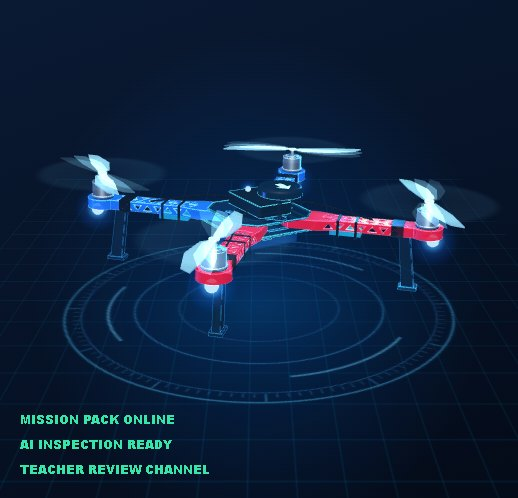
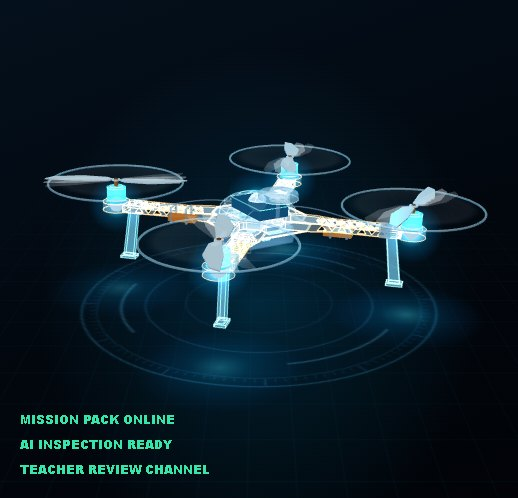
feat: 首頁 3D 無人機改為使用者參考圖風格（四旋翼 F450）；入口伺服器連線佇列放大
- 透明壓克力機身與座艙罩、銅橘結構線與電調、青光馬達與銅色軸、白灰槳與透明護圈
- 近黑帶青光背景、每顆馬達下方青色地面光暈；四槳仍各自獨立旋轉（相鄰旋向相反）
- 靜態備援圖更新為新風格；參考圖存於 docs/design-reference/
- static_entry_server：request_queue_size 5→128，修正並發載入時 Windows 拒絕連線導致通道 502

diff --git a/src/hero-drone-3d.js b/src/hero-drone-3d.js
@@ -73,44 +73,47 @@ function holoRingTexture() {
   return tex;
 }
 
-// 依零件名稱給「透明科技感」材質；名稱來自 GLB（GLTFLoader 會把空白換成底線）
+// 依零件名稱給材質。2026-11-06 依使用者參考圖（docs/design-reference/hero-drone-style-reference.jpg）改風格：
+// 透明壓克力機身、銅橘色結構線、青色發光馬達、白灰槳葉；機型維持四旋翼 F450（參考圖為多旋翼概念圖）
 function styleFor(name) {
   const n = String(name).replace(/_/g, ' ').toLowerCase();
-  const base = { transparent: true, depthWrite: true, side: THREE.DoubleSide };
-  if (n.includes('latticearm fl') || n.includes('latticearm fr')) {
-    // 前臂：紅色半透明發光
-    return { mat: { ...base, color: 0xff2d55, emissive: 0xff1744, emissiveIntensity: 0.45, metalness: 0.2, roughness: 0.35, opacity: 0.78 }, edge: 0xff6b8a, edgeOpacity: 0.55 };
-  }
+  const glass = { transparent: true, depthWrite: false, side: THREE.DoubleSide, metalness: 0.15, roughness: 0.06 };
   if (n.includes('latticearm')) {
-    // 後臂：藍色半透明發光
-    return { mat: { ...base, color: 0x2a8cff, emissive: 0x1565ff, emissiveIntensity: 0.5, metalness: 0.2, roughness: 0.35, opacity: 0.76 }, edge: 0x7cc4ff, edgeOpacity: 0.55 };
+    // 機臂：透明壓克力＋銅橘色輪廓（對應參考圖機臂內的橘色結構）
+    return { mat: { ...glass, color: 0xe6f8ff, emissive: 0x0a5a7a, emissiveIntensity: 0.22, opacity: 0.3 }, edge: 0xffa04a, edgeOpacity: 0.75 };
   }
   if (n.includes('motor')) {
-    return { mat: { color: 0xb8cde0, emissive: 0x0a4a8a, emissiveIntensity: 0.35, metalness: 0.85, roughness: 0.28 }, edge: 0x9fe3ff, edgeOpacity: 0.45 };
+    // 馬達：青色發光半透明外殼
+    return { mat: { ...glass, depthWrite: true, color: 0x7fe6ff, emissive: 0x16c8ff, emissiveIntensity: 0.95, opacity: 0.78 }, edge: 0xc8f6ff, edgeOpacity: 0.55 };
   }
   if (n.includes('pixhawk flightcontroller')) {
-    return { mat: { ...base, color: 0x16202c, emissive: 0x062a4a, emissiveIntensity: 0.6, metalness: 0.4, roughness: 0.3, opacity: 0.92 }, edge: 0x4fd8ff, edgeOpacity: 0.9 };
+    return { mat: { ...glass, depthWrite: true, color: 0x0c1a26, emissive: 0x0b5f95, emissiveIntensity: 0.55, opacity: 0.85 }, edge: 0x7fe9ff, edgeOpacity: 0.9 };
   }
   if (n.includes('gps arrow')) {
-    return { mat: { color: 0xe8f6ff, emissive: 0x7fd8ff, emissiveIntensity: 0.9 }, edge: null };
+    return { mat: { color: 0xffffff, emissive: 0x9fe9ff, emissiveIntensity: 0.9 }, edge: null };
   }
   if (n.includes('gps compass')) {
-    return { mat: { ...base, color: 0x0e1c2c, emissive: 0x08345a, emissiveIntensity: 0.6, metalness: 0.3, roughness: 0.25, opacity: 0.9 }, edge: 0x6fe0ff, edgeOpacity: 0.85 };
+    return { mat: { ...glass, color: 0xdff6ff, emissive: 0x0d7fb0, emissiveIntensity: 0.45, opacity: 0.45 }, edge: 0xa8f0ff, edgeOpacity: 0.8 };
   }
   if (n.includes('battery')) {
-    return { mat: { ...base, color: 0x1b5fa8, emissive: 0x0b3b7a, emissiveIntensity: 0.55, metalness: 0.3, roughness: 0.3, opacity: 0.62 }, edge: 0x6cc8ff, edgeOpacity: 0.7 };
+    return { mat: { ...glass, color: 0x9fdcff, emissive: 0x0b6aa0, emissiveIntensity: 0.5, opacity: 0.38 }, edge: 0x8fe6ff, edgeOpacity: 0.65 };
   }
   if (n.includes('esc')) {
-    return { mat: { ...base, color: 0x27c9ff, emissive: 0x0b7fbf, emissiveIntensity: 0.5, roughness: 0.4, opacity: 0.55 }, edge: null };
+    // 電調：銅橘色（對應參考圖的橘色線條）
+    return { mat: { ...glass, depthWrite: true, color: 0xff9a3c, emissive: 0xc05a10, emissiveIntensity: 0.45, metalness: 0.6, roughness: 0.3, opacity: 0.85 }, edge: null };
+  }
+  if (n.includes('gold edge')) {
+    return { mat: { ...glass, color: 0xffb066, emissive: 0xc06010, emissiveIntensity: 0.5, opacity: 0.8 }, edge: 0xffa04a, edgeOpacity: 0.8 };
   }
   if (n.includes('centre plate') || n.includes('powermodule') || n.includes('foam') || n.includes('gps mast')) {
-    return { mat: { ...base, color: 0x0b2742, emissive: 0x052040, emissiveIntensity: 0.6, metalness: 0.3, roughness: 0.25, opacity: n.includes('gold edge') ? 0.85 : 0.6 }, edge: 0x3cc8ff, edgeOpacity: n.includes('gold edge') ? 0.9 : 0.6 };
+    return { mat: { ...glass, color: 0xd6f2ff, emissive: 0x0a3a55, emissiveIntensity: 0.35, opacity: 0.26 }, edge: 0x9fe9ff, edgeOpacity: 0.6 };
   }
   if (n.includes('landing leg')) {
-    return { mat: { ...base, color: 0x0f2c48, emissive: 0x06243f, emissiveIntensity: 0.5, roughness: 0.35, opacity: 0.7 }, edge: 0x3aa8ff, edgeOpacity: 0.5 };
+    // 腳架：透明並帶青光（參考圖腳架下緣發青光）
+    return { mat: { ...glass, color: 0xbff0ff, emissive: 0x13b6e6, emissiveIntensity: 0.55, opacity: 0.42 }, edge: 0x9ff0ff, edgeOpacity: 0.6 };
   }
-  // 線束、束帶、膠帶等小件：深色低調
-  return { mat: { ...base, color: 0x0b1a2a, emissive: 0x03182c, emissiveIntensity: 0.4, roughness: 0.5, opacity: 0.8 }, edge: null };
+  // 線束、束帶、膠帶等小件：低調透明
+  return { mat: { ...glass, color: 0x9fb8c8, emissive: 0x06283c, emissiveIntensity: 0.3, opacity: 0.35 }, edge: null };
 }
 
 async function init() {
@@ -143,10 +146,10 @@ async function init() {
   const camera = new THREE.PerspectiveCamera(30, 1, 10, 6000);
 
   // 燈光：冷色環境光＋主光＋兩盞藍色補光
-  scene.add(new THREE.HemisphereLight(0x9fd8ff, 0x061223, 1.1));
-  const key = new THREE.DirectionalLight(0xffffff, 1.6); key.position.set(300, 600, -400); scene.add(key);
-  const rimA = new THREE.PointLight(0x2aa8ff, 2.2, 0, 0); rimA.position.set(-450, 120, 300); scene.add(rimA);
-  const rimB = new THREE.PointLight(0x3c7bff, 1.4, 0, 0); rimB.position.set(450, -80, 250); scene.add(rimB);
+  scene.add(new THREE.HemisphereLight(0xbfefff, 0x02080f, 0.9));
+  const key = new THREE.DirectionalLight(0xffffff, 1.8); key.position.set(300, 600, -400); scene.add(key);
+  const rimA = new THREE.PointLight(0x22d3ff, 2.4, 0, 0); rimA.position.set(-450, 120, 300); scene.add(rimA);
+  const rimB = new THREE.PointLight(0x18b8ff, 1.6, 0, 0); rimB.position.set(450, -120, 250); scene.add(rimB);
 
   const drone = new THREE.Group(); // 只用來做浮動與擺動
   scene.add(drone);
@@ -192,21 +195,31 @@ async function init() {
       const radius = Math.max(propSize.x, propSize.z) / 2; // 槳葉半徑（槳盤大小用）
       // 右前／左後 逆時針（+1），左前／右後 順時針（-1）→ 相鄰兩槳旋向相反
       const dir = pos === 'FR' || pos === 'RL' ? 1 : -1;
-      const blade = new THREE.Mesh(geometry, new THREE.MeshStandardMaterial({ color: 0xd8f0ff, emissive: 0x3fb6ff, emissiveIntensity: 0.55, transparent: true, opacity: 0.62, roughness: 0.3, metalness: 0.1, side: THREE.DoubleSide, depthWrite: false }));
+      // 槳葉：參考圖的白灰色槳
+      const blade = new THREE.Mesh(geometry, new THREE.MeshStandardMaterial({ color: 0xe4eaee, emissive: 0x2a3a44, emissiveIntensity: 0.25, transparent: true, opacity: 0.95, roughness: 0.42, metalness: 0.15, side: THREE.DoubleSide }));
       pivot.add(blade);
       // 輕微動態模糊：兩片同形狀、透明度遞減的殘影跟在槳葉後方
       [0.2, 0.4].forEach((lag, i) => {
-        const ghost = new THREE.Mesh(geometry, new THREE.MeshBasicMaterial({ color: 0x8fdcff, transparent: true, opacity: i === 0 ? 0.2 : 0.09, side: THREE.DoubleSide, depthWrite: false, blending: THREE.AdditiveBlending }));
+        const ghost = new THREE.Mesh(geometry, new THREE.MeshBasicMaterial({ color: 0xdfe8ee, transparent: true, opacity: i === 0 ? 0.22 : 0.1, side: THREE.DoubleSide, depthWrite: false }));
         ghost.rotation.y = -dir * lag;
         pivot.add(ghost);
       });
       // 很淡的槳盤（旋轉面），讓高速感更自然
-      const disc = new THREE.Mesh(new THREE.CircleGeometry(radius * 0.98, 48), new THREE.MeshBasicMaterial({ map: radialTexture([[0, 'rgba(120,210,255,0.0)'], [0.25, 'rgba(120,210,255,0.10)'], [0.85, 'rgba(120,210,255,0.16)'], [1, 'rgba(120,210,255,0)']]), transparent: true, opacity: 0.55, depthWrite: false, blending: THREE.AdditiveBlending, side: THREE.DoubleSide }));
+      const disc = new THREE.Mesh(new THREE.CircleGeometry(radius * 0.98, 48), new THREE.MeshBasicMaterial({ map: radialTexture([[0, 'rgba(220,240,250,0.0)'], [0.25, 'rgba(220,240,250,0.08)'], [0.85, 'rgba(220,240,250,0.14)'], [1, 'rgba(220,240,250,0)']]), transparent: true, opacity: 0.5, depthWrite: false, blending: THREE.AdditiveBlending, side: THREE.DoubleSide }));
       disc.rotation.x = -Math.PI / 2;
       // 圓盤不跟著槳葉轉，放在樞軸外的同一位置
       const discHolder = new THREE.Group();
       discHolder.position.copy(pivot.position);
       discHolder.add(disc);
+      // 銅色馬達軸（參考圖馬達上方的銅色軸），不旋轉
+      const shaft = new THREE.Mesh(new THREE.CylinderGeometry(3.2, 3.2, 16, 12), new THREE.MeshStandardMaterial({ color: 0xd98a3a, metalness: 0.85, roughness: 0.25, emissive: 0x5a2a08, emissiveIntensity: 0.4 }));
+      shaft.position.y = -6;
+      discHolder.add(shaft);
+      // 透明槳護圈（參考圖每個槳外圍的透明圓環），固定不轉
+      const guard = new THREE.Mesh(new THREE.TorusGeometry(radius * 1.07, 1.8, 8, 96), new THREE.MeshStandardMaterial({ color: 0xeaf9ff, emissive: 0x1aa8d8, emissiveIntensity: 0.35, transparent: true, opacity: 0.55, roughness: 0.05, metalness: 0.2, depthWrite: false }));
+      guard.rotation.x = Math.PI / 2;
+      guard.position.y = -4;
+      discHolder.add(guard);
       drone.add(pivot, discHolder);
       // 每顆馬達轉速略有差異，看起來比較真實
       propellers.push({ pivot, dir, speed: 24 + Math.random() * 2.5, phase: Math.random() * Math.PI });
@@ -227,7 +240,7 @@ async function init() {
   drone.add(model);
 
   // ── 藍色 LED：四個機臂末端下方＋飛控上方一顆狀態燈 ──
-  const glowTex = radialTexture([[0, 'rgba(210,240,255,1)'], [0.18, 'rgba(80,190,255,0.9)'], [0.5, 'rgba(30,120,255,0.25)'], [1, 'rgba(0,80,255,0)']]);
+  const glowTex = radialTexture([[0, 'rgba(225,250,255,1)'], [0.18, 'rgba(60,215,255,0.9)'], [0.5, 'rgba(0,170,240,0.28)'], [1, 'rgba(0,140,255,0)']]);
   const leds = [];
   const addLed = (position, size) => {
     const core = new THREE.Mesh(new THREE.SphereGeometry(size * 0.12, 12, 8), new THREE.MeshBasicMaterial({ color: 0xbfe8ff }));
@@ -238,15 +251,32 @@ async function init() {
     drone.add(core, glow);
     leds.push({ glow, size, offset: leds.length * 0.9 });
   };
-  Object.values(motorCenters).forEach((c) => addLed(new THREE.Vector3(c.x * 1.04, -6, c.z * 1.04), 70));
-  addLed(new THREE.Vector3(0, 36, 30), 34);
+  Object.values(motorCenters).forEach((c) => addLed(new THREE.Vector3(c.x, 8, c.z), 95));
+  addLed(new THREE.Vector3(0, 30, 6), 120);   // 機身內部的藍光（參考圖透明機身中的藍色光源）
+  // 透明座艙罩：罩住飛控，呈現參考圖的透明機身外殼
+  const canopy = new THREE.Mesh(new THREE.SphereGeometry(1, 48, 24, 0, Math.PI * 2, 0, Math.PI / 2), new THREE.MeshStandardMaterial({ color: 0xeaf9ff, emissive: 0x0a6a9a, emissiveIntensity: 0.25, transparent: true, opacity: 0.2, roughness: 0.04, metalness: 0.3, depthWrite: false, side: THREE.DoubleSide }));
+  canopy.scale.set(56, 30, 66);
+  canopy.position.set(0, 14, 4);
+  const canopyEdge = new THREE.LineSegments(new THREE.EdgesGeometry(new THREE.SphereGeometry(1, 16, 6, 0, Math.PI * 2, 0, Math.PI / 2), 1), new THREE.LineBasicMaterial({ color: 0xbff4ff, transparent: true, opacity: 0.22, depthWrite: false, blending: THREE.AdditiveBlending }));
+  canopy.add(canopyEdge);
+  drone.add(canopy);
 
   // ── 全息底環與低強度掃描光 ──
   const ringTex = holoRingTexture();
   const holo = new THREE.Mesh(new THREE.PlaneGeometry(560, 560), new THREE.MeshBasicMaterial({ map: ringTex, transparent: true, opacity: 0.6, depthWrite: false, blending: THREE.AdditiveBlending, side: THREE.DoubleSide }));
   holo.rotation.x = -Math.PI / 2;
   holo.position.y = -128;
+  holo.material.opacity = 0.3;
   scene.add(holo);
+  // 參考圖桌面上的青色光暈：每顆馬達正下方一團，緩慢明暗
+  const poolTex = radialTexture([[0, 'rgba(60,220,255,0.75)'], [0.35, 'rgba(0,170,255,0.32)'], [1, 'rgba(0,120,255,0)']]);
+  const pools = Object.values(motorCenters).map((c, i) => {
+    const pool = new THREE.Mesh(new THREE.PlaneGeometry(230, 230), new THREE.MeshBasicMaterial({ map: poolTex, transparent: true, opacity: 0.5, depthWrite: false, blending: THREE.AdditiveBlending }));
+    pool.rotation.x = -Math.PI / 2;
+    pool.position.set(c.x, -127, c.z);
+    scene.add(pool);
+    return { pool, offset: i * 1.3 };
+  });
   const scanTex = radialTexture([[0, 'rgba(80,200,255,0)'], [0.82, 'rgba(80,200,255,0.05)'], [0.96, 'rgba(120,220,255,0.35)'], [1, 'rgba(120,220,255,0)']]);
   const scan = new THREE.Mesh(new THREE.CircleGeometry(330, 64), new THREE.MeshBasicMaterial({ map: scanTex, transparent: true, opacity: 0.35, depthWrite: false, blending: THREE.AdditiveBlending, side: THREE.DoubleSide }));
   scan.rotation.x = -Math.PI / 2;
@@ -284,7 +314,8 @@ async function init() {
     // LED 柔和呼吸（不閃爍）
     leds.forEach((l) => { const k = 0.88 + Math.sin(t * 1.6 + l.offset) * 0.12; l.glow.scale.set(l.size * k, l.size * k, 1); l.glow.material.opacity = 0.7 + 0.2 * k; });
     holo.rotation.z = t * 0.12;
-    holo.material.opacity = 0.5 + Math.sin(t * 0.9) * 0.08;
+    holo.material.opacity = 0.26 + Math.sin(t * 0.9) * 0.05;
+    pools.forEach((p) => { p.pool.material.opacity = 0.42 + Math.sin(t * 1.4 + p.offset) * 0.08; });
     // 掃描光：6 秒一趟，由下往上慢慢掃過機身
     const s = (t % 6) / 6;
     scan.position.y = -140 + s * 230;

diff --git a/index.html b/index.html
@@ -4,7 +4,7 @@
     <meta charset="UTF-8" />
     <meta name="viewport" content="width=device-width, initial-scale=1.0" />
     <title>FDE-AI | 無人載具學習控制中心</title>
-    <link rel="stylesheet" href="./src/styles.css?v=1.5-twin" />
+    <link rel="stylesheet" href="./src/styles.css?v=1.6-hero-style" />
   </head>
   <body class="home-view">
     <aside class="sidebar">
@@ -476,6 +476,6 @@
     <script src="./src/app.js?v=1.3.0-about&fde=1.2-fde-column"></script>
     <!-- 首頁右側 3D 無人機：沿用 F450 數位孿生的 three.js（同站 /f450-twin/vendor），延後到頁面載完才載入 -->
     <script type="importmap">{"imports":{"three":"/f450-twin/vendor/three/three.module.min.js"}}</script>
-    <script type="module" src="./src/hero-drone-3d.js?v=1.4-hero3d"></script>
+    <script type="module" src="./src/hero-drone-3d.js?v=2.0-hero-style"></script>
   </body>
 </html>

diff --git a/src/styles.css b/src/styles.css
@@ -3288,3 +3288,14 @@ a.about-card:hover { border-color: var(--line-strong); box-shadow: 0 0 18px rgba
     grid-template-columns: 1fr;
   }
 }
+
+/* ── 2026-11-06：首頁 3D 無人機改為參考圖風格：近黑底＋青色微光，網格調淡 ── */
+.drone-stage.drone-3d-ready {
+  background:
+    radial-gradient(ellipse at 50% 62%, rgba(0, 170, 230, 0.16), transparent 60%),
+    linear-gradient(160deg, #04101c 0%, #02070e 55%, #010307 100%);
+}
+
+.drone-stage.drone-3d-ready .grid-plane {
+  opacity: 0.35;
+}

diff --git a/demo/tools/static_entry_server.py b/demo/tools/static_entry_server.py
@@ -623,6 +623,9 @@ class EntryHandler(BaseHTTPRequestHandler):
 class EntryServer(ThreadingHTTPServer):
     daemon_threads = True
     allow_reuse_address = True
+    # 2026-11-06：預設佇列只有 5，首頁一次載入約 20 個檔案時，Windows 會直接拒絕多出來的連線，
+    # Cloudflare 通道就回 502（樣式表沒載到、整頁變素頁）。放大到 128 讓瞬間並發的請求排隊等候。
+    request_queue_size = 128
 
 
 def main() -> int:
